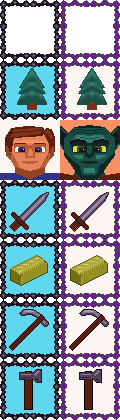
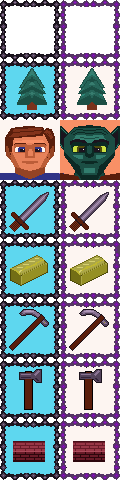
Added wall selection for the build menu

diff --git a/js/UserInterface.js b/js/UserInterface.js
@@ -25,8 +25,13 @@ var goldButtonHovering = false;
 var goldButtonSelected = false;
 var peasantSelected = false;
 
+var wallButtonHovering = false;
+var wallButtonSelected = false;
+var wallButtonX = 10;
+var wallButtonY = 120;
+
 function checkButtonHandling(){
-  if(peasantSelected){
+  if(peasantSelected && !constructionButtonSelected){
       lumberButtonHovering = checkMouseInsideBox(lumberX, lumberY, pictureWidth, pictureHeight);    
       attackButtonHovering = checkMouseInsideBox(attackX, attackY, pictureWidth, pictureHeight);
       goldButtonHovering = checkMouseInsideBox(goldX, goldY, pictureWidth, pictureHeight);
@@ -86,8 +91,10 @@ function checkButtonHandling(){
       } else {
         constructionButtonSelected = false;
       }
+    } else if (constructionButtonSelected){
+
     }
-  }
+  } 
 
 function checkMouseInsideBox(xPos, yPos, width, height){
     var x1 = Math.floor(xPos);
@@ -107,7 +114,7 @@ function drawUserInterface(){
     colorText(" = " + playerUnits.length, 120, 22, "black", "14px Arial");
   }
 
-  if(peasantSelected){
+  if(peasantSelected && !constructionButtonSelected){
     drawBitmapAtLocation(peasantProfilePic, 0,120, pictureWidth, pictureHeight, 10, 36);
     colorText("PEASANT", 9, 20, "Yellow", "14px Arial");
     colorText("OPTIONS", 9, 116, "Yellow", "14px Arial");
@@ -198,5 +205,17 @@ function drawUserInterface(){
       colorText("FARM", 19, farmY+pictureHeight+15, "White", "14px Arial");
       colorText("FOOD", 18, farmY+pictureHeight+29, "White", "14px Arial");
     } 
-  } 
+  } else if (constructionButtonSelected){  //// Construction Screen
+    drawBitmapAtLocation(peasantProfilePic, 0,120, pictureWidth, pictureHeight, 10, 36);
+    colorText("PEASANT", 9, 20, "Yellow", "14px Arial");
+    colorText("OPTIONS", 9, 116, "Yellow", "14px Arial");
+
+    if(wallButtonHovering){ 
+      drawBitmapAtLocation(framePic, 60,420, pictureWidth, pictureHeight, wallButtonX, wallButtonY);
+      colorText("WALL", 21, wallButtonY+pictureHeight+15, "Yellow", "14px Arial");
+    } else {
+      drawBitmapAtLocation(framePic, 0,420, pictureWidth, pictureHeight, wallButtonX, wallButtonY);
+      colorText("WALL", 21, wallButtonY+pictureHeight+15, "Black", "14px Arial");
+    }
+  }
 }
